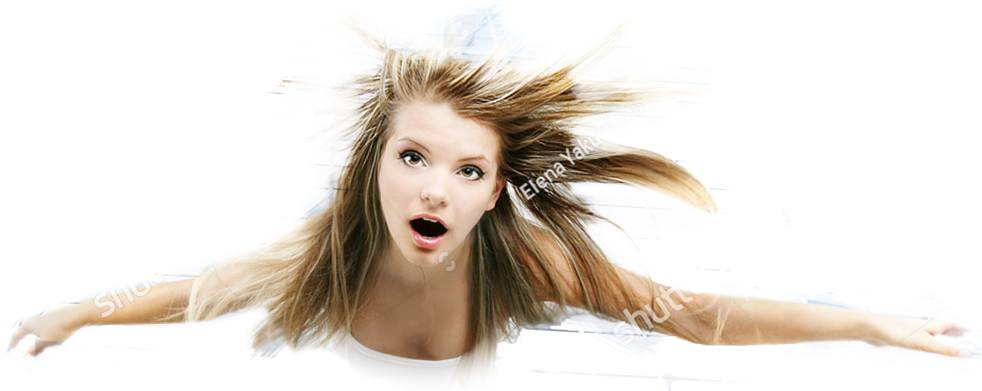
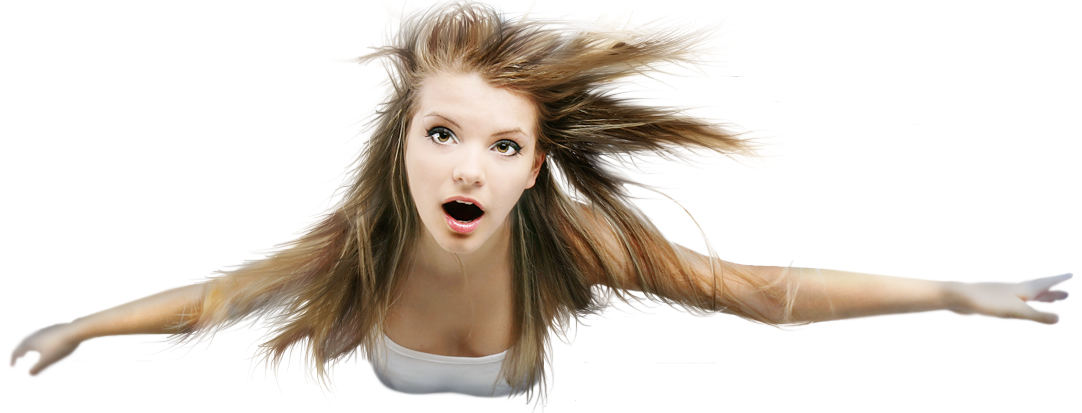
Header

diff --git a/src/index.html b/src/index.html
@@ -31,7 +31,7 @@
 					<li><a href="videos.html">Видео</a></li>
 					<li><a href="photos.html">Фото</a></li>
 					<li><a href="shares.html">Акции</a></li>
-					<li><a href="contacts.html">контакты</a></li>
+					<li><a href="feedback.html">контакты</a></li>
 				</ul>
 			</div>
 			<div class="panel__phone col"><a href="+74996496842">+7 (499) 649-68-42</a></div>
@@ -340,175 +340,6 @@
 			</div>
 		</div>
 	</main>
-	<div class="header header_page">
-		<div class="container row">
-			<div class="header__logo col"><a href=""><img src="upload/logos/logo-big.png" alt=""></a></div>
-			<div class="header__text right col"><img src="upload/text/text-white.png" alt=""></div>
-		</div>
-	</div>
-	<div class="main">
-		<div class="page container">
-			<div class="page__title title title_red">Билеты</div>
-			<div class="page__wrap">
-				<div class="shares-page">
-					<div class="shares-page__list">
-						<div class="shares-page__item">
-							<div class="shares-page__title">Дни Влюбленных</div>
-							<div class="shares-page__img"><img src="upload/shares/page/1.png" alt=""></div>
-							<div class="shares-page__text">Повседневная практика показывает, что укрепление и развитие структуры требуют определения и уточнения форм развития. Товарищи! реализация намеченных плановых заданий в значительной степени обуславливает создание новых предложений. Товарищи! консультация с широким активом обеспечивает широкому кругу (специалистов) участие в формировании позиций, ... </div>
-							<a href="" class="shares-page__button button button_red"><span>подробнее</span></a>
-						</div>
-						<div class="shares-page__item">
-							<div class="shares-page__title">новый год</div>
-							<div class="shares-page__img"><img src="upload/shares/page/2.png" alt=""></div>
-							<div class="shares-page__text">Повседневная практика показывает, что укрепление и развитие структуры требуют определения и уточнения форм развития. Товарищи! реализация намеченных плановых заданий в значительной степени обуславливает создание новых предложений. Товарищи! консультация с широким активом обеспечивает широкому кругу (специалистов) участие в формировании позиций, ... </div>
-							<a href="" class="shares-page__button button button_red"><span>подробнее</span></a>
-						</div>
-						<div class="shares-page__item">
-							<div class="shares-page__title">день студента</div>
-							<div class="shares-page__img"><img src="upload/shares/page/3.png" alt=""></div>
-							<div class="shares-page__text">Повседневная практика показывает, что укрепление и развитие структуры требуют определения и уточнения форм развития. Товарищи! реализация намеченных плановых заданий в значительной степени обуславливает создание новых предложений. Товарищи! консультация с широким активом обеспечивает широкому кругу (специалистов) участие в формировании позиций, ... </div>
-							<a href="" class="shares-page__button button button_red"><span>подробнее</span></a>
-						</div>
-					</div>
-				</div>
-				<div class="tickets">
-					<div class="tickets__head row_line">
-						<div class="tickets__col col_line">цена ЗА 1 билет</div>
-						<div class="tickets__col col_line">ТЦ «ВДНХ»</div>
-						<div class="tickets__col col_line">ТРК «Ривьера»</div>
-					</div>
-					<div class="tickets__body">
-						<table class="tickets__table">
-							<thead>
-								<tr>
-									<td>ЦЕНА ЗА 1 БИЛЕТ</td>
-									<td>ТЦ «ВДНХ»</td>
-									<td>ТРК «РИВЬЕРА»</td>
-								</tr>
-							</thead>
-							<tbody>
-								<tr class="tickets__imgs">
-									<td></td>
-									<td><img src="upload/places/1.png" alt=""></td>
-									<td><img src="upload/places/2.png" alt=""></td>
-								</tr>
-								<tr class="tickets__ticket">
-									<td><p>Взрослый билет</p></td>
-									<td>
-										<div class="price">
-											<div class="price__count"><span>350</span> руб.</div>
-											<div class="price__increment increment">
-												<div class="increment__button increment__button_minus">-</div>
-												<div class="increment__input"><input type="text" placeholder="0"></div>
-												<div class="increment__button increment__button_plus">+</div>
-											</div>
-										</div>
-									</td>
-									<td>
-										<div class="price">
-											<div class="price__count"><span>450</span> руб.</div>
-											<div class="price__increment increment">
-												<div class="increment__button increment__button_minus">-</div>
-												<div class="increment__input"><input type="text" placeholder="0"></div>
-												<div class="increment__button increment__button_plus">+</div>
-											</div>
-										</div>
-									</td>
-								</tr>
-								<tr class="tickets__ticket">
-									<td><p>Льготный билет</p><span>(дети до 14 лет, пенсионеры, многодетные семьи)</span></td>
-									<td>
-										<div class="price">
-											<div class="price__count"><span>250</span> руб.</div>
-											<div class="price__increment increment">
-												<div class="increment__button increment__button_minus">-</div>
-												<div class="increment__input"><input type="text" placeholder="0"></div>
-												<div class="increment__button increment__button_plus">+</div>
-											</div>
-										</div>
-									</td>
-									<td>
-										<div class="price">
-											<div class="price__count"><span>350</span> руб.</div>
-											<div class="price__increment increment">
-												<div class="increment__button increment__button_minus">-</div>
-												<div class="increment__input"><input type="text" placeholder="0"></div>
-												<div class="increment__button increment__button_plus">+</div>
-											</div>
-										</div>
-									</td>
-								</tr>
-								<tr class="tickets__ticket">
-									<td><p>Бесплатно</p><span>(дети до 4 лет, лица с ограниченными возможностями 1 и 2 группы)</span></td>
-									<td>
-										<div class="price">
-											<div class="price__count"><span>0</span> руб.</div>
-											<div class="price__increment increment">
-												<div class="increment__button increment__button_minus">-</div>
-												<div class="increment__input"><input type="text" placeholder="0"></div>
-												<div class="increment__button increment__button_plus">+</div>
-											</div>
-										</div>
-									</td>
-									<td>
-										<div class="price">
-											<div class="price__count"><span>0</span> руб.</div>
-											<div class="price__increment increment">
-												<div class="increment__button increment__button_minus">-</div>
-												<div class="increment__input"><input type="text" placeholder="0"></div>
-												<div class="increment__button increment__button_plus">+</div>
-											</div>
-										</div>
-									</td>
-								</tr>
-								<tr class="tickets__total">
-									<td colspan="3"><p>итого: <span>630</span> руб.</p></td>
-								</tr>
-							</tbody>
-						</table>
-						<div class="tickets__button-wrap">
-							<div class="tickets__button button button_red"><span>купить со скидкой</span></div>
-							<div class="tickets__button-desc">При покупке билета с сайта скидка 10%</div>
-						</div>
-					</div>
-				</div>
-				<div class="videos-page">
-					<div class="videos-page__list row_line">
-						<div class="videos-page__item col_line"><iframe width="560" height="315" src="https://www.youtube.com/embed/qul6NADtN-A" frameborder="0" gesture="media" allow="encrypted-media" allowfullscreen></iframe></div>
-						<div class="videos-page__item col_line"><iframe width="560" height="315" src="https://www.youtube.com/embed/qul6NADtN-A" frameborder="0" gesture="media" allow="encrypted-media" allowfullscreen></iframe></div>
-						<div class="videos-page__item col_line"><iframe width="560" height="315" src="https://www.youtube.com/embed/qul6NADtN-A" frameborder="0" gesture="media" allow="encrypted-media" allowfullscreen></iframe></div>
-						<div class="videos-page__item col_line"><iframe width="560" height="315" src="https://www.youtube.com/embed/qul6NADtN-A" frameborder="0" gesture="media" allow="encrypted-media" allowfullscreen></iframe></div>
-						<div class="videos-page__item col_line"><iframe width="560" height="315" src="https://www.youtube.com/embed/qul6NADtN-A" frameborder="0" gesture="media" allow="encrypted-media" allowfullscreen></iframe></div>
-						<div class="videos-page__item col_line"><iframe width="560" height="315" src="https://www.youtube.com/embed/qul6NADtN-A" frameborder="0" gesture="media" allow="encrypted-media" allowfullscreen></iframe></div>
-						<div class="videos-page__item col_line"><iframe width="560" height="315" src="https://www.youtube.com/embed/qul6NADtN-A" frameborder="0" gesture="media" allow="encrypted-media" allowfullscreen></iframe></div>
-						<div class="videos-page__item col_line"><iframe width="560" height="315" src="https://www.youtube.com/embed/qul6NADtN-A" frameborder="0" gesture="media" allow="encrypted-media" allowfullscreen></iframe></div>
-						<div class="videos-page__item col_line"><iframe width="560" height="315" src="https://www.youtube.com/embed/qul6NADtN-A" frameborder="0" gesture="media" allow="encrypted-media" allowfullscreen></iframe></div>
-						<div class="videos-page__item col_line"><iframe width="560" height="315" src="https://www.youtube.com/embed/qul6NADtN-A" frameborder="0" gesture="media" allow="encrypted-media" allowfullscreen></iframe></div>
-					</div>
-					<div class="videos-page__button button button_gray"><span>Еще</span></div>
-				</div>
-				<div class="feedback">
-					<div class="feedback__title">Задать вопрос</div>
-					<div class="feedback__wrap">
-						<div class="feedback__line">
-							<div class="feedback__label">Ваше имя</div>
-							<input type="text" class="feedback__input input">
-						</div>
-						<div class="feedback__line">
-							<div class="feedback__label">e-mail</div>
-							<input type="text" class="feedback__input input">
-						</div>
-						<div class="feedback__line feedback__line_mt">
-							<div class="feedback__label vat">Вопрос</div>
-							<textarea class="feedback__textarea textarea"></textarea>
-						</div>
-						<button class="feedback__button button button_red"><span>отправить</span></button>
-					</div>
-				</div>
-			</div>
-		</div>
-	</div>
 	<footer class="footer">
 		<div class="container">
 			<div class="footer__title title">наши координаты</div>

diff --git a/src/template/styles/css/responsive.css b/src/template/styles/css/responsive.css
@@ -22,7 +22,7 @@
     padding-right: 0; }
   .header_main .header__girl {
     z-index: 1;
-    left: 185px; }
+    left: 235px; }
   .header_page .header__logo {
     margin-left: 0;
     margin-top: 15px; }
@@ -245,7 +245,7 @@
   .panel__nav li {
     margin-right: 30px; }
   .header_main .header__girl {
-    left: 80px; }
+    left: 130px; }
   .about__line_bottom .about__item:nth-of-type(3) {
     display: none; }
   .top5__wrap {
@@ -532,7 +532,7 @@
       margin-top: 10px; }
   .footer__text p:nth-of-type(1) {
     font-size: 20px; }
-  .title {
+  .page__title {
     padding-top: 70px;
     padding-bottom: 20px; } }
 

diff --git a/src/template/styles/sass/responsive.sass b/src/template/styles/sass/responsive.sass
@@ -29,7 +29,7 @@
 					padding-right: 0
 				&__girl
 					z-index: 1
-					left: 185px
+					left: 235px
 		&_page
 			.header
 				&__logo
@@ -286,7 +286,7 @@
 		&_main
 			.header
 				&__girl
-					left: 80px
+					left: 130px
 
 	.about
 		&__line
@@ -626,7 +626,7 @@
 			p
 				&:nth-of-type(1)
 					font-size: 20px
-	.title
+	.page__title
 		padding-top: 70px
 		padding-bottom: 20px
 @media screen and (max-width: 550px)

diff --git a/src/feedback.html b/src/feedback.html
@@ -31,7 +31,7 @@
 					<li><a href="videos.html">Видео</a></li>
 					<li><a href="photos.html">Фото</a></li>
 					<li><a href="shares.html">Акции</a></li>
-					<li><a href="contacts.html">контакты</a></li>
+					<li><a href="feedback.html">контакты</a></li>
 				</ul>
 			</div>
 			<div class="panel__phone col"><a href="+74996496842">+7 (499) 649-68-42</a></div>

diff --git a/src/photos.html b/src/photos.html
@@ -31,7 +31,7 @@
 					<li><a href="videos.html">Видео</a></li>
 					<li><a href="photos.html">Фото</a></li>
 					<li><a href="shares.html">Акции</a></li>
-					<li><a href="contacts.html">контакты</a></li>
+					<li><a href="feedback.html">контакты</a></li>
 				</ul>
 			</div>
 			<div class="panel__phone col"><a href="+74996496842">+7 (499) 649-68-42</a></div>

diff --git a/src/shares.html b/src/shares.html
@@ -31,7 +31,7 @@
 					<li><a href="videos.html">Видео</a></li>
 					<li><a href="photos.html">Фото</a></li>
 					<li><a href="shares.html">Акции</a></li>
-					<li><a href="contacts.html">контакты</a></li>
+					<li><a href="feedback.html">контакты</a></li>
 				</ul>
 			</div>
 			<div class="panel__phone col"><a href="+74996496842">+7 (499) 649-68-42</a></div>

diff --git a/src/tickets.html b/src/tickets.html
@@ -31,7 +31,7 @@
 					<li><a href="videos.html">Видео</a></li>
 					<li><a href="photos.html">Фото</a></li>
 					<li><a href="shares.html">Акции</a></li>
-					<li><a href="contacts.html">контакты</a></li>
+					<li><a href="feedback.html">контакты</a></li>
 				</ul>
 			</div>
 			<div class="panel__phone col"><a href="+74996496842">+7 (499) 649-68-42</a></div>

diff --git a/src/videos.html b/src/videos.html
@@ -31,7 +31,7 @@
 					<li><a href="videos.html">Видео</a></li>
 					<li><a href="photos.html">Фото</a></li>
 					<li><a href="shares.html">Акции</a></li>
-					<li><a href="contacts.html">контакты</a></li>
+					<li><a href="feedback.html">контакты</a></li>
 				</ul>
 			</div>
 			<div class="panel__phone col"><a href="+74996496842">+7 (499) 649-68-42</a></div>

diff --git a/src/template/styles/css/style.css b/src/template/styles/css/style.css
@@ -375,8 +375,8 @@ img {
       font-size: 16px; }
     .header_main .header__girl {
       position: absolute;
-      top: 220px;
-      left: 335px;
+      top: 165px;
+      left: 355px;
       width: 982px;
       height: 391px; }
       .header_main .header__girl div {

diff --git a/src/template/scripts/common.js b/src/template/scripts/common.js
@@ -13,8 +13,8 @@ $(document).ready(function($) {
 	});
 
 	$('.header__girl div').parallax({
-		mouseport: $(".header_main"),
+		// mouseport: $(".header_main"),
 		xparallax: '50px',
-		yparallax: '50px'
+		yparallax: '150px'
 	});
 });

diff --git a/src/template/styles/sass/style.sass b/src/template/styles/sass/style.sass
@@ -305,8 +305,8 @@ img
 			&__girl
 				position: absolute
 
-				top: 220px
-				left: 335px
+				top: 165px
+				left: 355px
 				width: 982px
 				height: 391px
 				div
